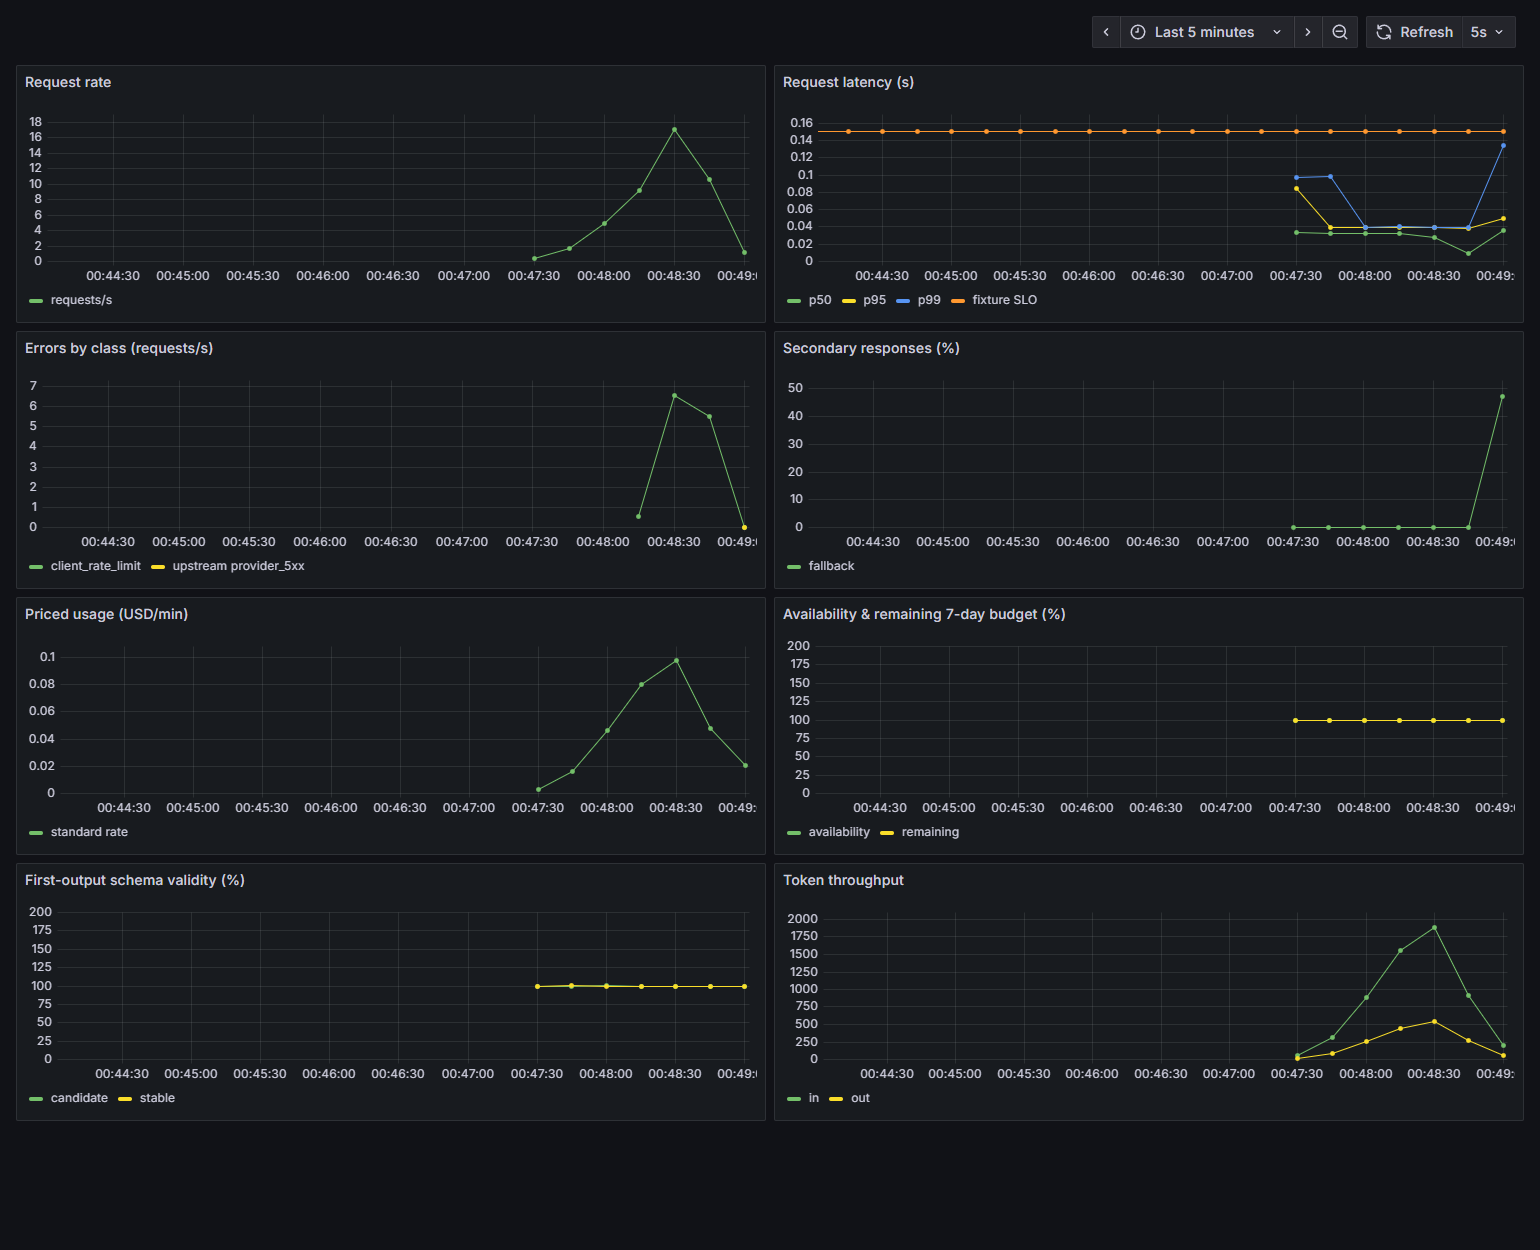
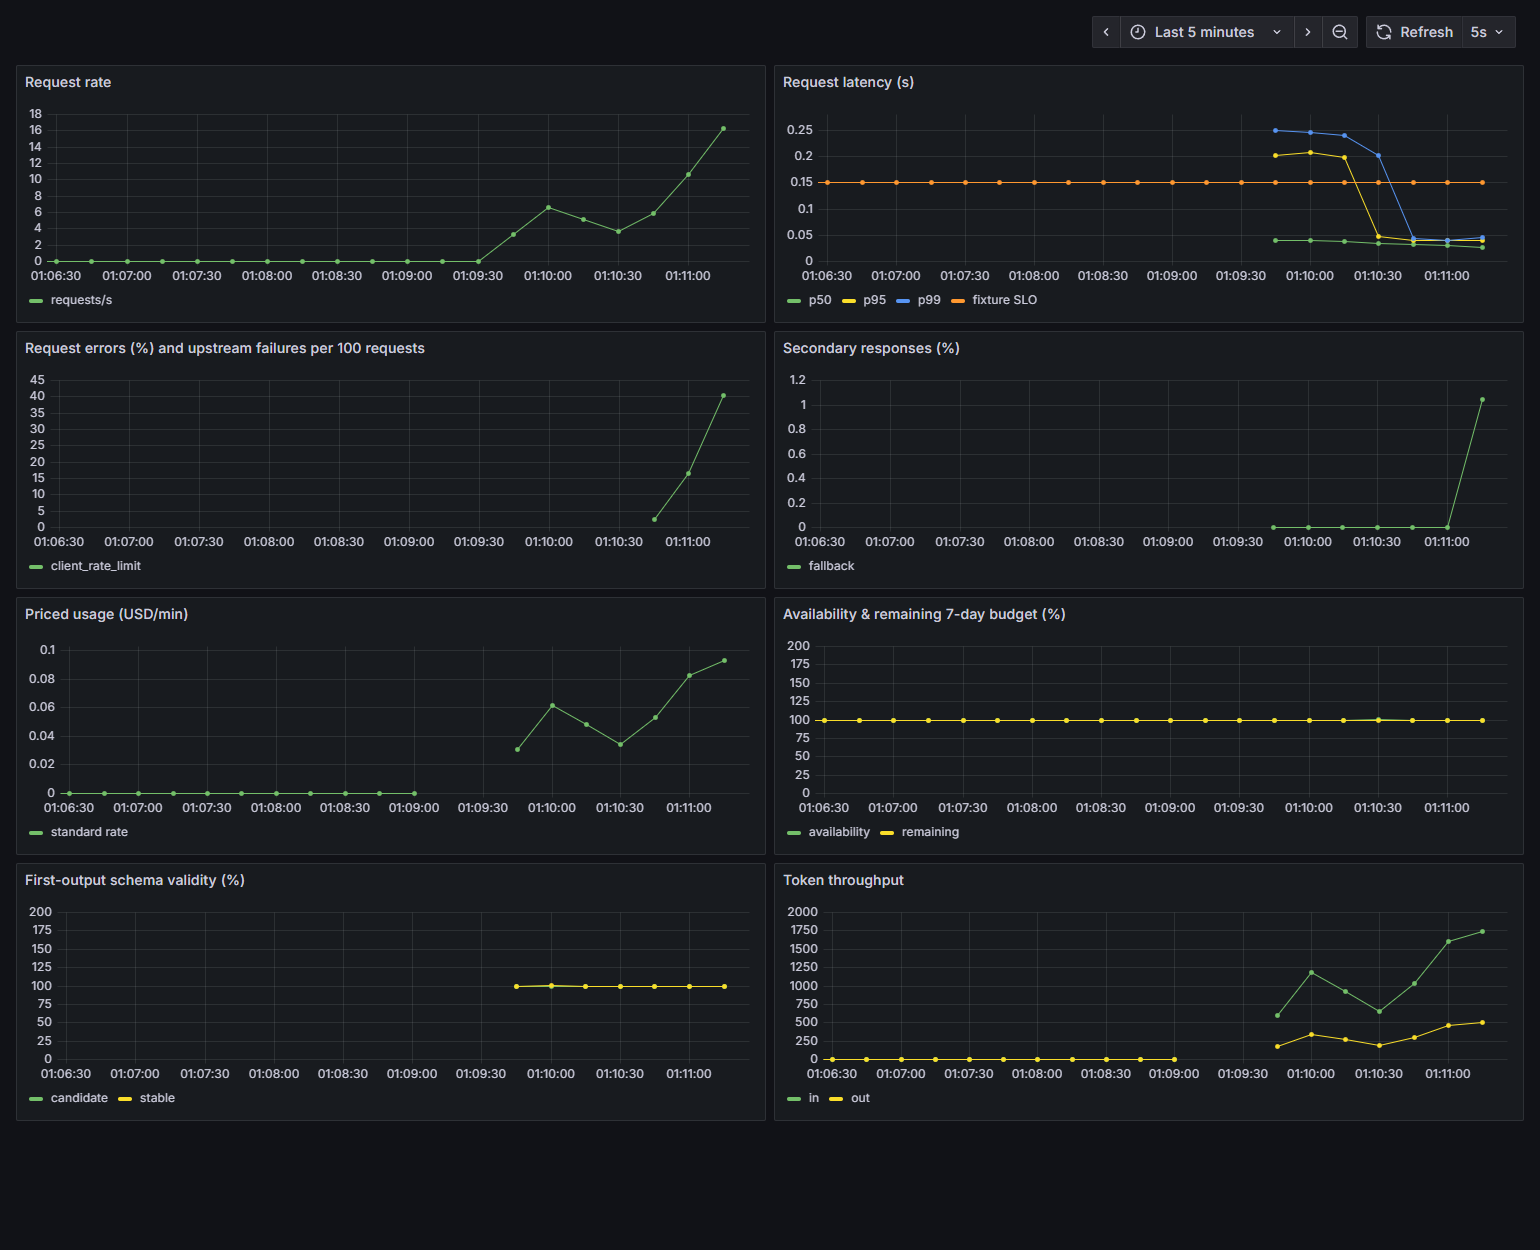
Record end-to-end audit measurements and alert regression checks

diff --git a/tests/test_service.py b/tests/test_service.py
@@ -204,11 +204,23 @@ def test_live_gate_requires_labels_and_complete_usage():
     assert compare(base, dict(base, draft_reply_judge=.7))[0]
 
 
+@pytest.mark.parametrize(("metric", "value"), [
+    ("availability", .90), ("first_pass", .95), ("p95_ms", 80), ("priced_usd_per_request", .0002),
+])
+def test_canary_decision(metric, value):
+    from scripts.drill import breaches
+    stable = dict(n=30, availability=1, first_pass=1, p95_ms=50, priced_usd_per_request=.00015)
+    assert breaches(stable, dict(stable, **{metric:value})) == [metric]
+    with pytest.raises(ValueError, match="insufficient"):
+        breaches(stable, dict(stable, n=24))
+
+
 def test_provider_http_adapters_with_loopback_servers(monkeypatch):
     from http.server import BaseHTTPRequestHandler, ThreadingHTTPServer
     from threading import Thread
 
     paths = []
+    primary_status = 429
     answer = json.dumps(dict(category="ORDER", product="storefront", priority="normal",
                              summary="Order tracking", draft_reply="Please check the order page."))
     class Upstream(BaseHTTPRequestHandler):
@@ -216,9 +228,16 @@ def test_provider_http_adapters_with_loopback_servers(monkeypatch):
             paths.append(self.path)
             payload = json.loads(self.rfile.read(int(self.headers["Content-Length"])))
             if "chat/completions" in self.path:
-                self.send_response(429)
-                self.send_header("Retry-After", "90")
-                body = {"error":{"message":"fixture busy","type":"rate_limit_error"}}
+                self.send_response(primary_status)
+                if primary_status == 200:
+                    body = {"id":"chat_test","object":"chat.completion","created":1,"model":payload["model"],
+                            "choices":[{"index":0,"message":{"role":"assistant","content":answer},"finish_reason":"stop"}],
+                            "usage":{"prompt_tokens":30,"completion_tokens":24,"total_tokens":54}}
+                elif primary_status == 429:
+                    self.send_header("Retry-After", "90")
+                    body = {"error":{"message":"fixture busy","type":"rate_limit_error"}}
+                else:
+                    body = {"error":{"message":"invalid request","type":"invalid_request_error"}}
             else:
                 self.send_response(200)
                 body = {"type":"message","id":"msg_test","model":payload["model"],"role":"assistant",
@@ -247,6 +266,17 @@ def test_provider_http_adapters_with_loopback_servers(monkeypatch):
             assert response.is_success, (response.json(), paths)
             assert response.json()["fallback"] and response.json()["model"].startswith("claude-")
             assert len(paths) == 2 and "chat/completions" in paths[0] and "/messages" in paths[1]
+            gateway.breaker.states.clear()
+            paths.clear()
+            primary_status = 400
+            assert post().json()["error"] == "provider_request"
+            assert paths == ["/v1/chat/completions"]
+            primary_status = 200
+            assert post().json()["fallback"] is False
+            monkeypatch.setenv("LIVE_BUDGET_USD","0")
+            paths.clear()
+            assert post().json()["error"] == "budget"
+            assert paths == []
         finally:
             server.shutdown()
             thread.join()

diff --git a/scripts/drill.py b/scripts/drill.py
@@ -112,8 +112,8 @@ def run():
                 delta=snapshot(c)-start
                 stats={name:cohort_stats(delta,times,name) for name,times in samples.items()}
                 reasons=breaches(**stats)
-                if "p95_ms" not in reasons:
-                    raise RuntimeError("latency drill did not trip threshold")
+                if not reasons:
+                    raise RuntimeError("canary drill did not trip a threshold")
                 weight(0)
                 start=snapshot(c)
                 recovered=[ticket(c) for _ in range(30)]

diff --git a/scripts/rollout.py b/scripts/rollout.py
@@ -12,7 +12,8 @@ def weight(percent):
     if not 0 <= percent <= 100:
         raise ValueError("percent outside 0..100")
     with tempfile.NamedTemporaryFile(mode="w", dir=path.parent, delete=False) as f:
-        json.dump(dict(cfg, percent=percent),f)
+        json.dump(dict(cfg, percent=percent), f, indent=2)
+        f.write("\n")
     try:
         os.chmod(f.name, stat.S_IMODE(path.stat().st_mode))
         os.replace(f.name,path)

diff --git a/README.md b/README.md
@@ -2,7 +2,7 @@
 
 A FastAPI service that classifies support tickets, drafts replies and records which prompt and model served each request.
 
-**Local rollback drill:** a candidate passed the offline gate, then reached **244.8 ms p95** across 25 fixture requests versus **56.6 ms** across 237 stable requests. Setting the candidate weight to zero restored the stable version on **30/30** subsequent requests, at **53.1 ms p95**. The test injected 180 ms into candidate calls and used real loopback HTTP. [Drill results](results/fixture/canary.json)
+In a local rollback drill, the candidate passed a fresh held-out gate, then reached **227.3 ms p95** across 25 fixture requests versus **46.9 ms** across 185 stable requests. Setting its weight to zero restored the stable version on **30/30** subsequent requests, at **47.3 ms p95**. The test injected 180 ms into candidate calls and sent traffic through the Compose API. [Drill results](results/fixture/canary.json)
 
 ![Project Grafana dashboard during local fixture traffic](results/fixture/grafana-load.png)
 
@@ -59,6 +59,8 @@ uv run --frozen python -m scripts.gate .local/base.json .local/candidate.json
 
 Python setup downloads checksum-verified token tables once. Docker includes them in the image. The adapter integration test sends an OpenAI-format request to a local server returning HTTP 429, then verifies the Anthropic-format request and successful response. This exercises the SDK adapters without provider accounts or charges.
 
+The fixture classifies by keyword. Its scores can reveal changes to the harness, schema or service, but it does not evaluate whether a real model follows a rewritten prompt. The live quality gate requires at least 200 human priority reviews, held-out priority labels, reply grades for every successful case and complete reported inference usage. Those checks remain open.
+
 The frozen sample contains 132 dev and 132 held-out tickets across 11 categories. Category uses exact match to the upstream label. Product uses exact match to the project-defined category-to-product mapping. Priority becomes scorable only after human review. Summary uses a lexical grounding proxy: at least half of its distinct word tokens must appear in the ticket. The fixture often echoes the ticket, so 100% on this check offers little evidence of summary quality. Only draft_reply has an optional live judge. [Data provenance and priority rubric](data/README.md)
 
 |Held-out fixture measure, same 132 tickets|v1 baseline|v2 trimmed|
@@ -83,12 +85,12 @@ Set RECORD_REPLAY=1 only for a controlled development run. Replay uses a disk ca
 
 |Target RPS|Completed / achieved RPS|All-request p50 / p95 / p99 (ms)|HTTP 429|Other errors|
 |---:|---:|---:|---:|---:|
-|2|31 / 2.07|37.1 / 75.7 / 461.9|0|0|
-|6|91 / 6.07|37.3 / 39.6 / 40.0|0|0|
-|12|181 / 12.07|36.5 / 39.1 / 40.2|13|0|
-|24|360 / 24.00|2.9 / 38.9 / 40.6|181|0|
+|2|31 / 2.07|36.8 / 39.3 / 39.4|0|0|
+|6|90 / 6.00|38.1 / 40.2 / 41.5|0|0|
+|12|181 / 12.07|36.9 / 39.8 / 41.9|13|0|
+|24|361 / 24.07|7.0 / 41.0 / 48.7|181|0|
 
-Rate limiting first appeared at the configured boundary of 12 RPS. At 24 RPS, fast 429s lowered the median while successful-request p95 remained 39.8 ms. This sweep found the admission limit before provider saturation. A long first-stage tail included a 612 ms request. [2 RPS](results/fixture/load-2.json) · [6 RPS](results/fixture/load-6.json) · [12 RPS](results/fixture/load-12.json) · [24 RPS](results/fixture/load-24.json)
+Rate limiting first appeared at the configured boundary of 12 RPS. At 24 RPS, fast 429s lowered the median while successful-request p95 reached 41.9 ms. This sweep measures admission limits and service latency with a fixture backend. [2 RPS](results/fixture/load-2.json) · [6 RPS](results/fixture/load-6.json) · [12 RPS](results/fixture/load-12.json) · [24 RPS](results/fixture/load-24.json)
 
 Provisional fixture targets are 99% eligible-request availability over seven days and p95 under 150 ms over five minutes at roughly 5 RPS. The latency ceiling is about three times the warmed v1 p95. The availability target allows one failure per 100 eligible requests against a baseline of 132/132 successes. The list-price objective is under $0.22 per 1,000 successes with a $0.065/min spike alert at the design rate. A full seven-day window and live targets remain unverified. Responses are non-streaming, so TTFT is inapplicable.
 
@@ -112,7 +114,7 @@ Native FastAPI instrumentation and the custom request span both traced the same 
 
 The redaction stretch goal covered email addresses and US-style telephone numbers before inference. On five positive and five negative synthetic examples, all five positives were redacted and no negative controls changed. Across 10,000 calls, p95 overhead was 4 µs. Names, addresses, account IDs and international phone formats are outside this measurement. [Redaction evidence](results/fixture/redaction.json)
 
-One 140.9 ms failover request captured in Phoenix spent 6.7 ms and 4.8 ms on failed primary attempts and 75.4 ms on the successful secondary call. The remaining 54 ms included backoff and request handling. Each attempt shares the request trace ID. [Trace exported from Phoenix](results/fixture/phoenix-trace.json)
+One 146.5 ms failover request captured in Phoenix spent 13.5 ms and 5.7 ms on failed primary attempts and 64.2 ms on the successful secondary call. The remaining 63.1 ms included backoff and request handling. The API returned the same trace ID that Phoenix recorded for all three attempts. [Trace exported from Phoenix](results/fixture/phoenix-trace.json)
 
 ## Attribution
 
